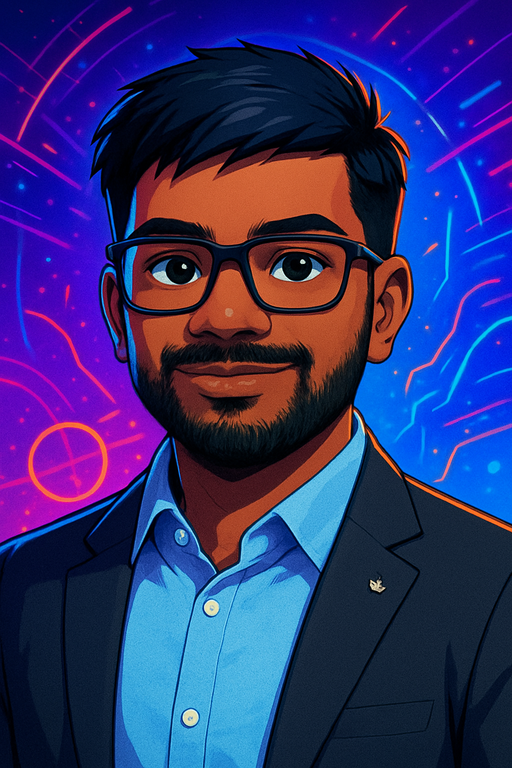
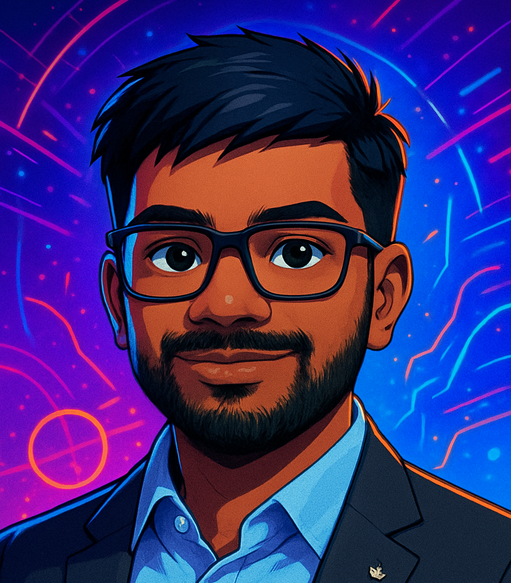
Changed photo again"

diff --git a/frontend/src/views/home.vue b/frontend/src/views/home.vue
@@ -47,7 +47,7 @@ export default {
           <div
             class="relative before:absolute before:inset-0 before:animate-spin-slow before:rounded-full before:bg-gradient-to-b before:from-primary before:via-secondary before:to-primary before:content-[''] before:-z-10 before:[mask:linear-gradient(white,transparent_70%)]"
           >
-            <Avatar class="size-40 border-4 border-background bg-gradient-to-b from-primary/20 to-primary/5 backdrop-blur-lg">
+            <Avatar class="size-45 border-4 border-background bg-gradient-to-b from-primary/20 to-primary/5 backdrop-blur-lg">
               <AvatarImage
                 :src="Pic"
                 alt="@Hritik Gupta"
